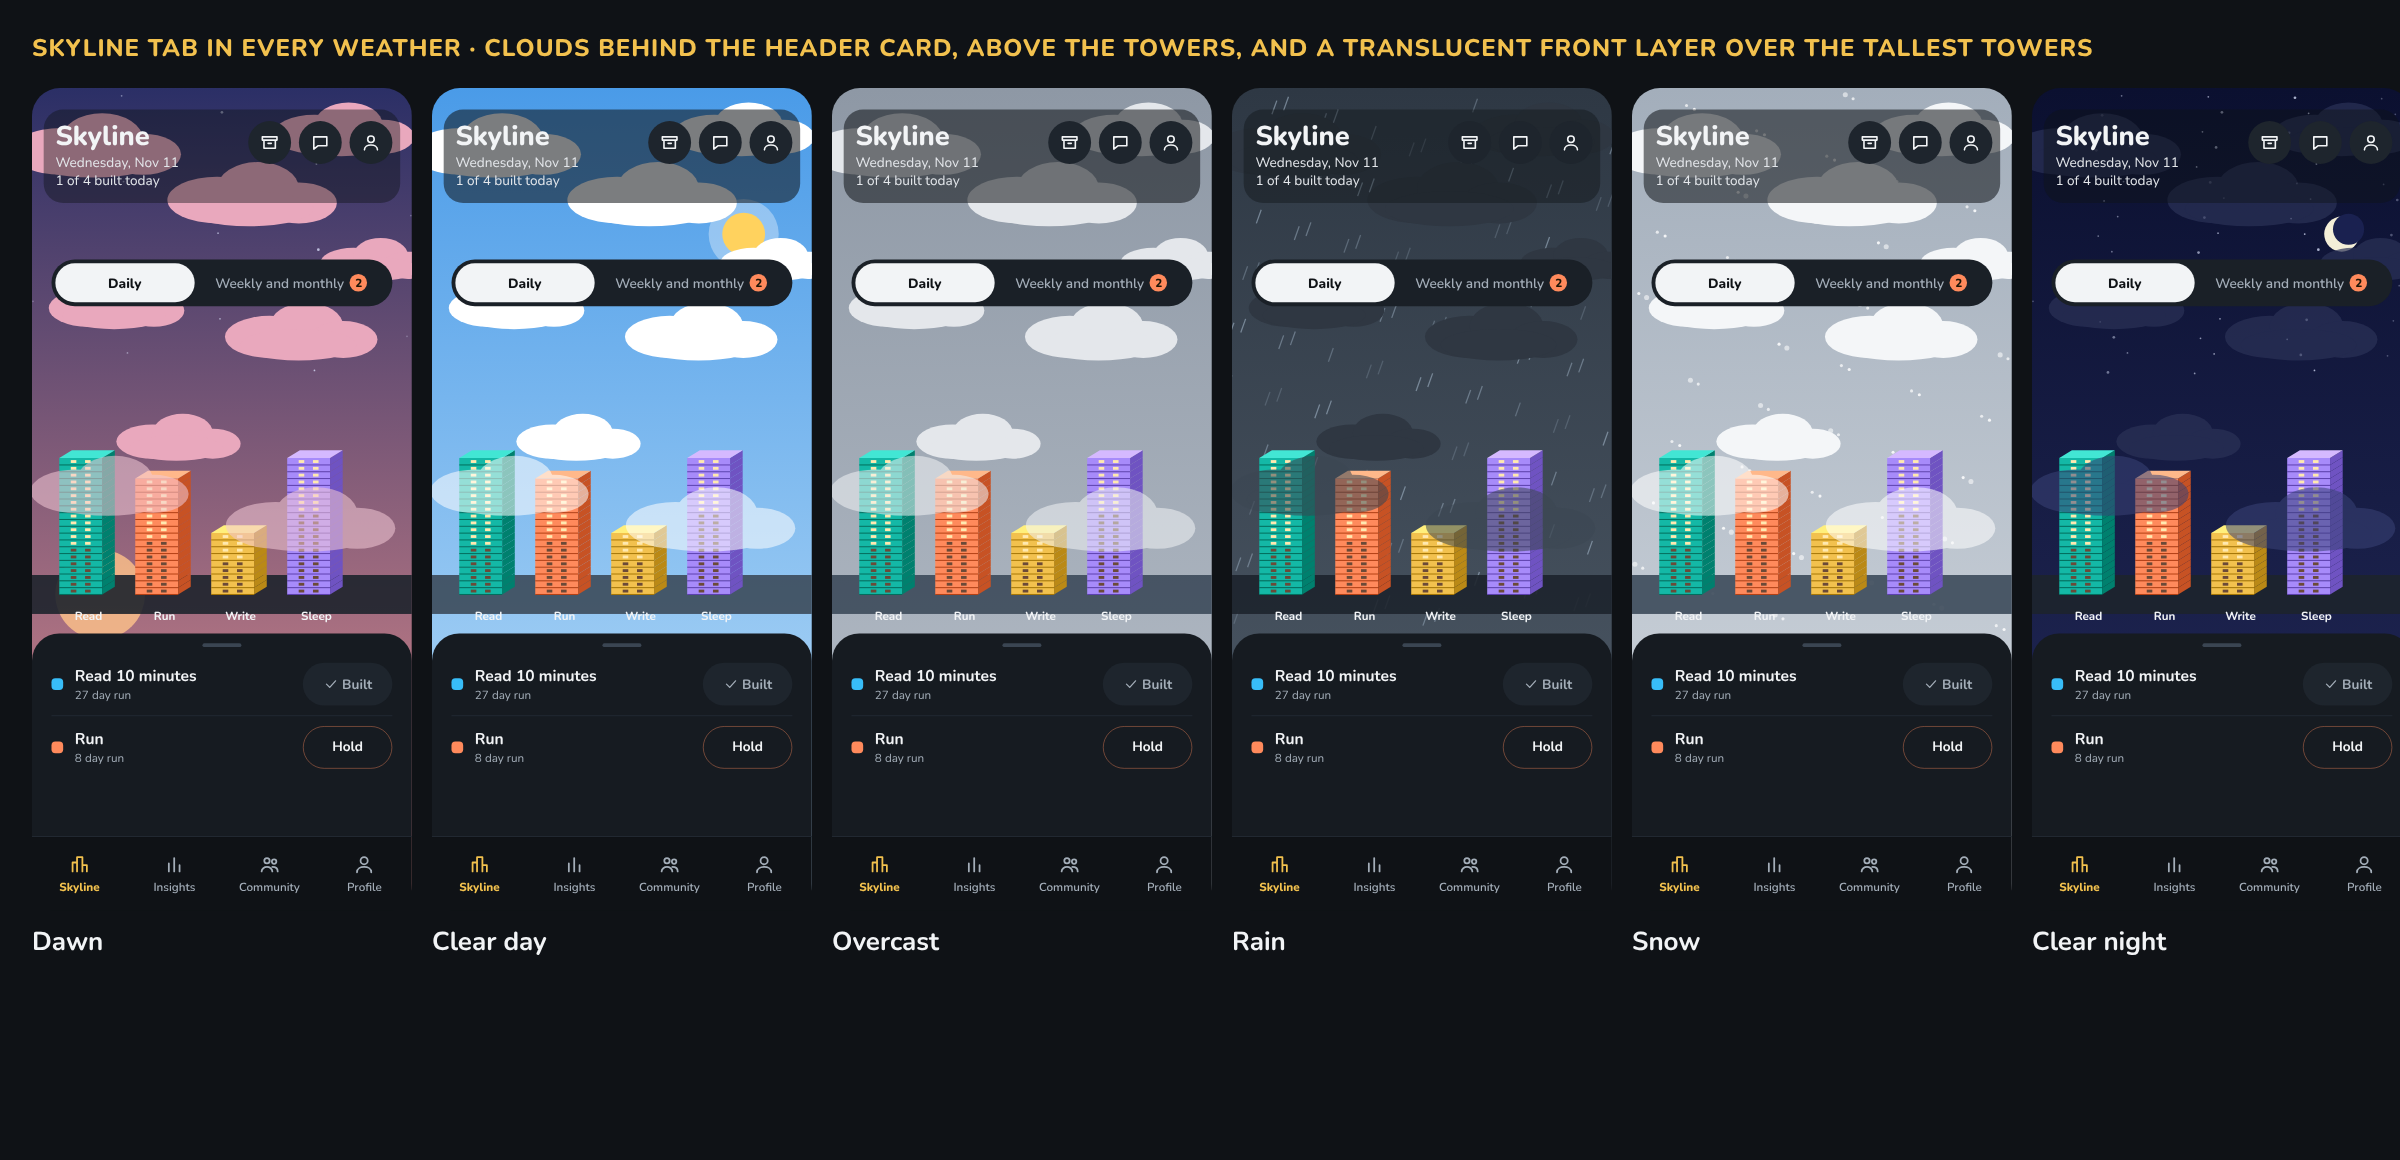
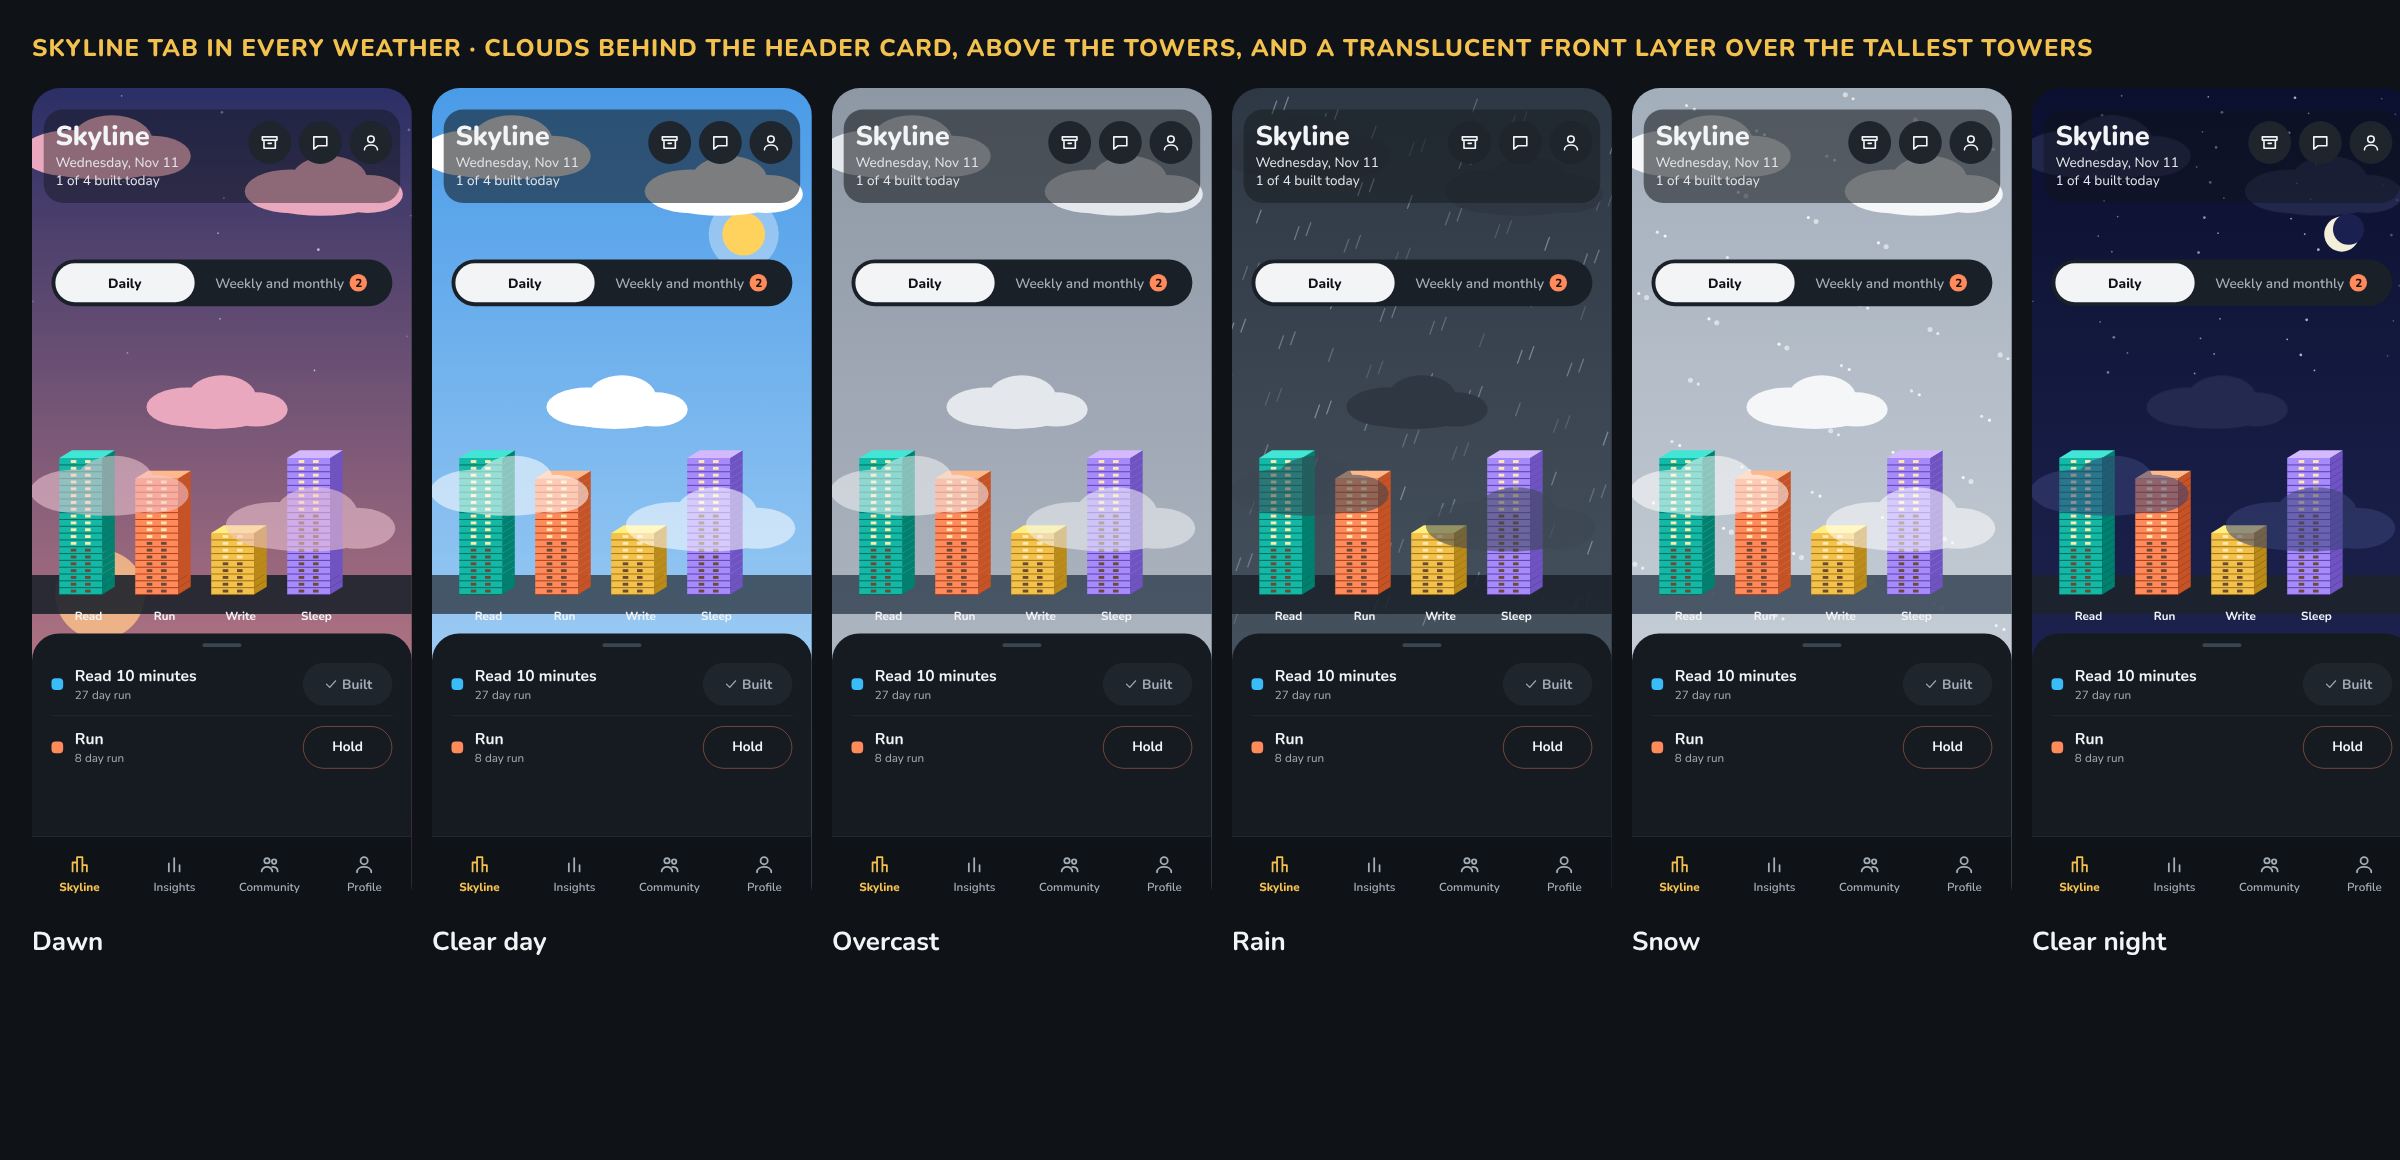
Boards 94 and 96: at most 5 clouds
Claude-Session: https://claude.ai/code/session_01UvWD32uMFJU1E2B9jDYiLg

diff --git a/design/skyline/source/rd.js b/design/skyline/source/rd.js
@@ -164,7 +164,7 @@ const skyScreen=(k)=>{const P=SKY[k];const T=[['Read',28,'#14B8A6',20,13],['Run'
  if(k==='night')fx+=`<circle cx="318" cy="150" r="18" fill="#F4EFD8"/><circle cx="325" cy="145" r="16" fill="#1A2150"/>`;
  if(k==='day')fx+=`<circle cx="320" cy="150" r="36" fill="#FFFFFF" opacity=".35"/><circle cx="320" cy="150" r="22" fill="#FFD25E"/>`;
  if(k==='dawn')fx+=`<circle cx="70" cy="520" r="46" fill="#FFC38A" opacity=".8"/>`;
- const back=[[-30,20,1.5],[130,70,1.5],[240,10,1.25],[10,190,1.2],[190,215,1.35],[290,150,1.0],[80,330,1.1]].map(([x,y,sc])=>cloud(x,y,sc,P[2])).join('');
+ const back=[[-20,22,1.5],[210,64,1.4],[110,290,1.25]].map(([x,y,sc])=>cloud(x,y,sc,P[2])).join('');
  const front=[[-10,372,1.4],[190,404,1.5]].map(([x,y,sc])=>`<g opacity=".55">${cloud(x,y,sc,P[3])}</g>`).join('');
  const dk=P[4]==='dark';
  return `<div style="position:absolute;inset:0;overflow:hidden;background:#0F1216"><svg width="390" height="844" style="position:absolute;top:0;left:0"><defs><linearGradient id="g${k}" x1="0" y1="0" x2="0" y2="1"><stop offset="0" stop-color="${P[0]}"/><stop offset="1" stop-color="${P[1]}"/></linearGradient></defs><rect width="390" height="844" fill="url(#g${k})"/>${fx}${k==='night'?'':''}<g opacity="${k==='night'?.7:1}">${back}</g>

diff --git a/design/skyline/README.md b/design/skyline/README.md
@@ -166,3 +166,5 @@ Same fields, order and actions as today's LoginScreen and SignupScreen; only the
 Pattern basis: iOS Settings per-category coloured icon chips and Linear/Notion style coloured squares, from knowledge, not a fresh web search.
 
 **Update 2026-11-26 (owner feedback on 94):** more clouds, in three layers. Back layer: clouds behind the header card text and above the towers, so the translucent header card lets them show through. Front layer: two translucent clouds (about 55% opacity) that pass over the tallest towers, with the towers still visible through them. Applies to every weather state: board 96 `96-skyline-all-weather-cloud-layers.png` shows Dawn, Clear day, Overcast, Rain, Snow and Clear night. Cloud colours: dawn pink, day white, overcast light grey, rain dark grey, snow white, night dark blue at 70%. **Board 95 approved by the owner 2026-11-26.** 94 and 96 await approval.
+
+**Update 2026-11-26 (owner: too many clouds):** each sky now has 5 clouds at most: 3 back clouds (two behind the header card, one above the towers) and 2 translucent front clouds over the tallest towers. Replaces the seven-back-cloud version in 94 and 96.
